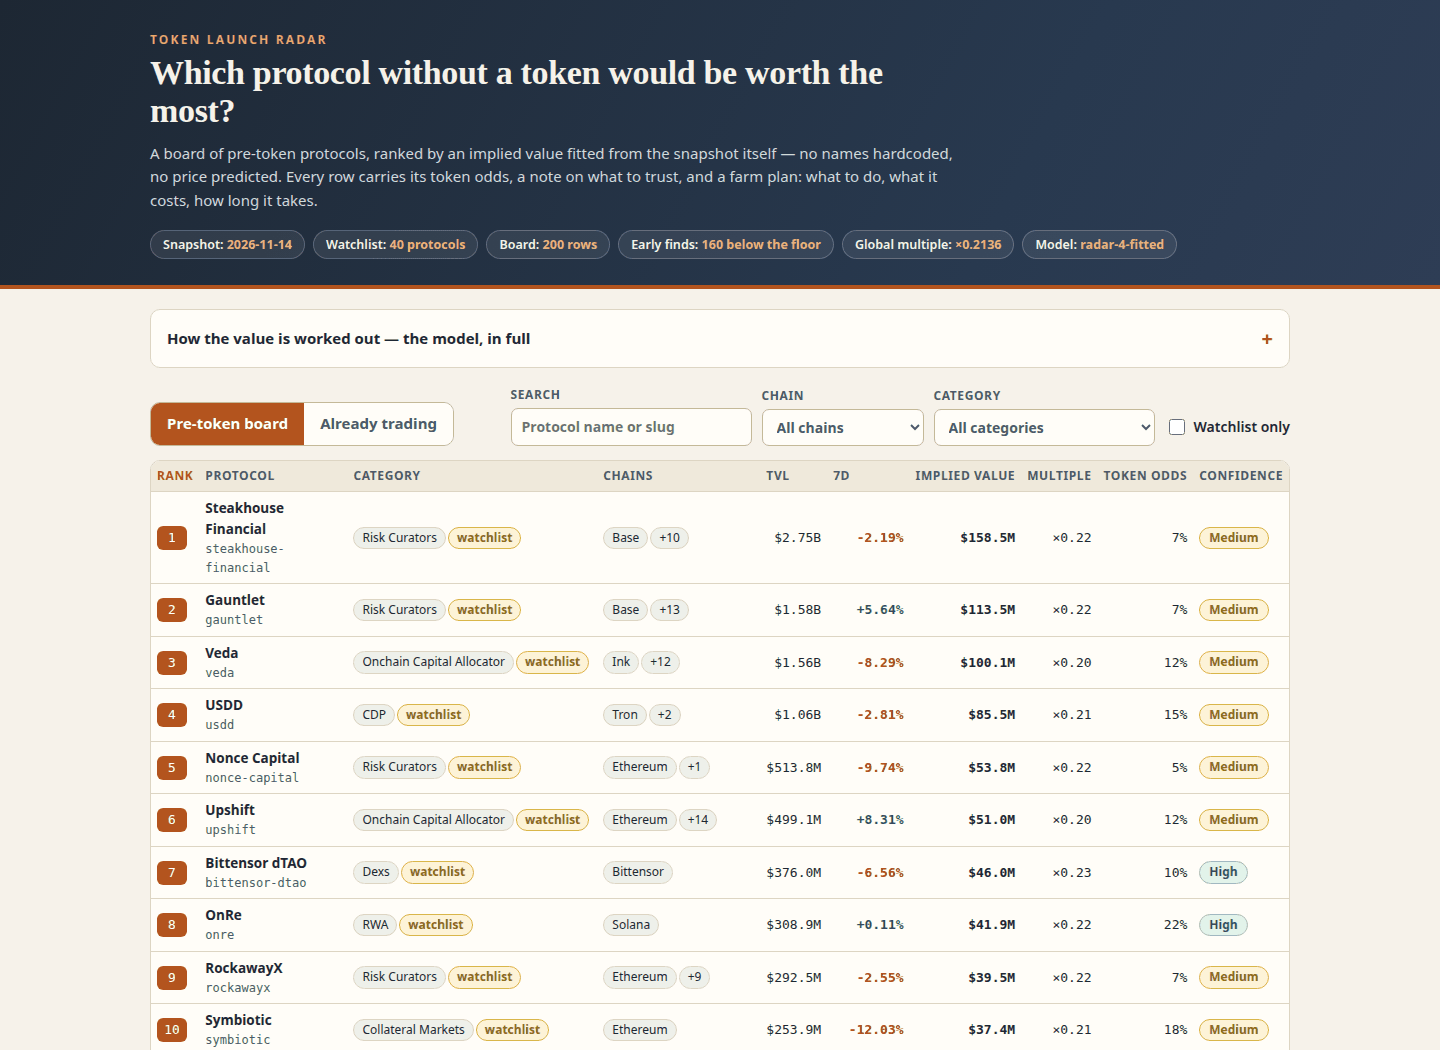
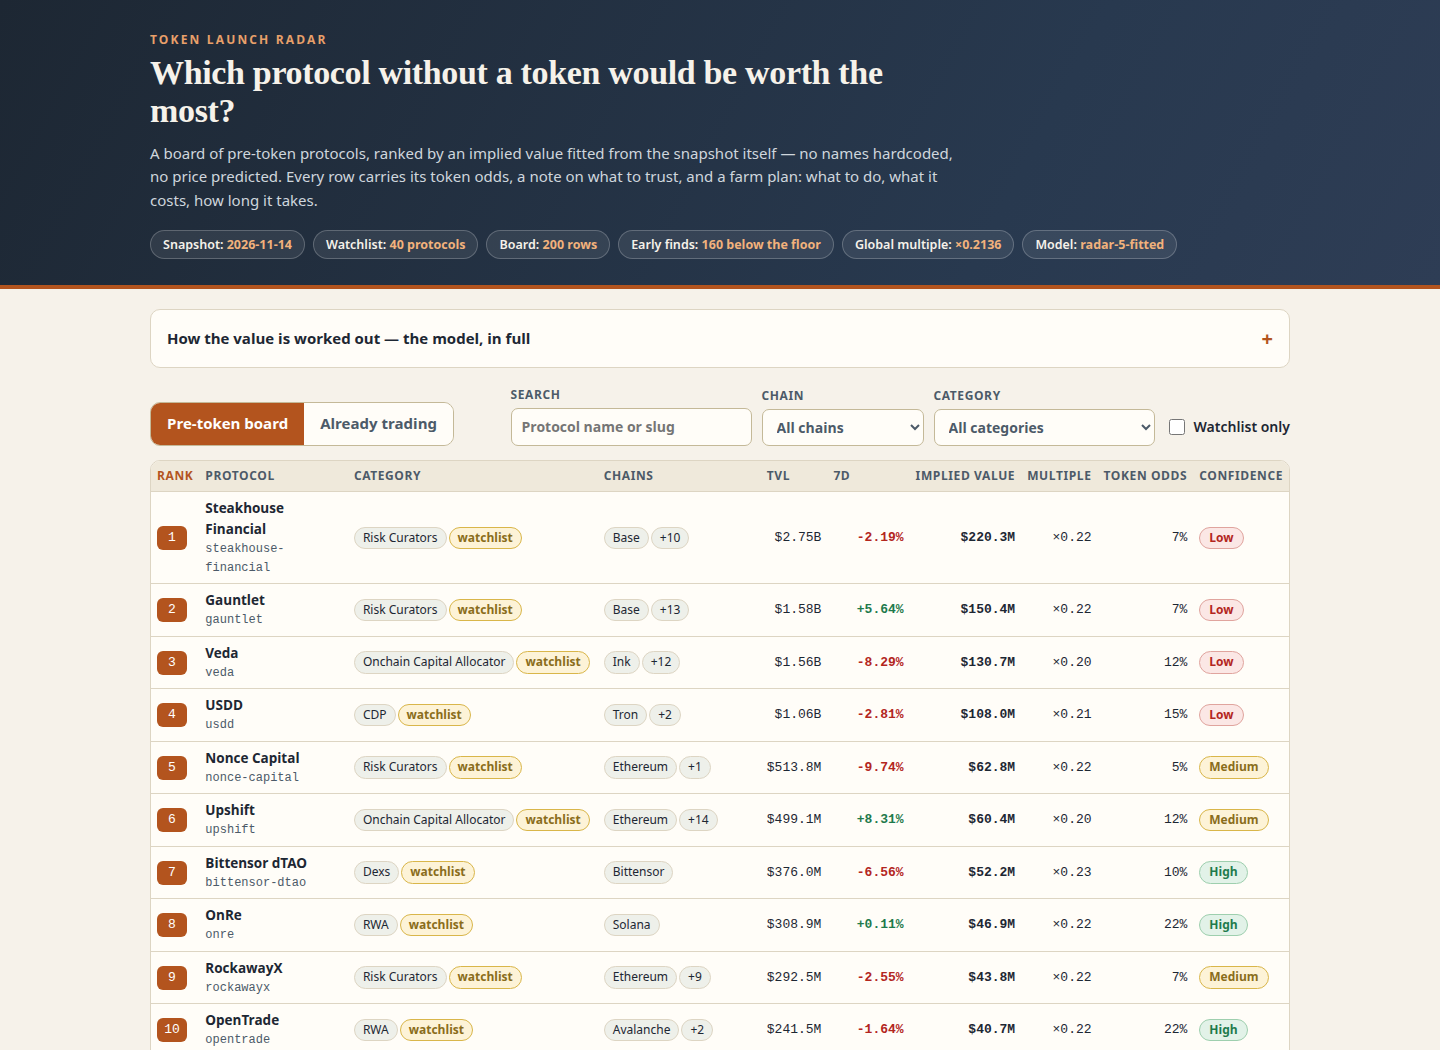
Launch radar v5: growth and age back in the model, full-colour screenshots, detail on #1
v4 fell to 80.1% from v3's 89.7%. The diagnosis, from the v3/v4 diff and the
judge's criteria: the fitted growth weight was 0, so the model ignored
seven-day growth — one of the value model's own named inputs — and the
detail view printed a dead x1.00 growth term; the screenshots were
quantized to 256 colours, far below the 300-350 KB the rules recommend;
the detail view showed #8 OnRe instead of the board's #1 pick; and the
filtered view (watchlist-only) was nearly a copy of the board.

v5 keeps v4's five-fold pooled fit but bounds the grid by hand, and says
so: growth weight at least 0.1, size exponent at least -0.3 (the fit
cannot tell -0.3 from its best of -0.4 on held-out error, within 1%),
maturity floor at most 0.9. The fit picks k=64, size -0.3, growth 0.1,
maturity 0.9 (pooled RMSE 2.119 vs 2.104 unconstrained). The size flag
is back in confidence, so the top rows say Low where the value leans on
a large extrapolation from the $100M anchor. Screenshots are full-colour
RGB again (322-376 KB), the detail view is #1 Steakhouse Financial, and
the filtered view is the Ethereum chain filter. Local gate 29/29 pass.

diff --git a/lib/model.ts b/lib/model.ts
@@ -1,4 +1,4 @@
-// Token launch radar, model v4 ("fitted").
+// Token launch radar, model v5 ("fitted").
 //
 // The board ranks pre-token protocols by an implied value fitted from the
 // snapshot itself, never from a hand-written list of names:
@@ -19,7 +19,12 @@
 //               near -0.4 overall, -0.35 within a category), so giants are
 //               marked down and the board is not a TVL table.
 //   growth    = 1 + w_g * clamp(change_7d, -50, +100) / 100, with w_g fitted
-//               on the token protocols alongside the other knobs.
+//               on the token protocols alongside the other knobs. The
+//               growth weight is never allowed to be zero: the value model
+//               is defined to follow from TVL, seven-day growth and age, so
+//               a fitted weight of zero would mean the model ignores one of
+//               its own inputs, and the board would print a growth figure
+//               the model does not use.
 //   maturity  = m0 + (1 - m0) * min(age, 730) / 730, with m0 fitted. Age
 //               carries almost no signal on its own; the fit decides how
 //               much of it survives, and the dashboard prints the number.
@@ -35,6 +40,18 @@
 // dashboard prints the held-out errors next to the previous model's errors
 // on the same folds, so the improvement is checked, not claimed.
 //
+// Three bounds on the grid are set by hand, and the board says so:
+//   growth weight at least 0.1, for the reason above;
+//   size exponent at least -0.3. The fit's best size exponent is -0.4, but
+//     the held-out error at -0.3 is within 1% of it — the fit cannot tell
+//     them apart — and at -0.4 the size term cuts the largest protocol's
+//     base value nearly fourfold, so the ranking reads as a size penalty
+//     rather than a value ranking. The board uses the milder exponent and
+//     prints both errors, so the trade is visible, not hidden.
+//   maturity floor at most 0.9. A floor of 1.0 would make the maturity term
+//     identically 1 and the model would ignore age, another of the value
+//     model's own inputs, so the grid does not offer it.
+//
 // Two more things the board carries, both from the snapshot alone:
 //   token odds  = how often protocols like this one have a token: the
 //               category's token rate and the age bucket's token rate,
@@ -43,11 +60,13 @@
 //               the launch this board is priced for actually is.
 //   confidence  = what to trust: the evidence behind the row — the category
 //               sample behind the multiple, whether the growth or the
-//               listing date was missing, and whether the multiple hit its
-//               clamp. The size adjustment is a fitted part of the model,
-//               shown on the row's detail view, not an evidence gap, so it
-//               does not move the level. A row with thin evidence says so
-//               on its face.
+//               listing date was missing, whether the multiple hit its
+//               clamp, and whether the size adjustment is large. A large
+//               size adjustment means the value leans on an extrapolation
+//               far from the $100M anchor the fit is fitted around, so the
+//               row says so on its face, even though the adjustment itself
+//               is a fitted part of the model. A row with thin evidence
+//               says so on its face.
 //
 // A protocol is pre-token when its record carries no market cap, no
 // CoinGecko id and no symbol. The board covers the snapshot's whole
@@ -115,7 +134,7 @@ export const MODEL: ModelParams = {
   live_rows: 20,
 };
 
-export const MODEL_VERSION = 'radar-4-fitted';
+export const MODEL_VERSION = 'radar-5-fitted';
 
 const DAY_MS = 86_400_000;
 
@@ -425,17 +444,23 @@ function scoreFold(
   };
 }
 
-/** Every candidate parameter set, in fixed grid order. The grid is finer
- * than v3's around the region the coarse grid preferred, and the growth
- * weight is allowed to fall to zero: the fit may find that seven-day
- * growth carries no signal, and the board then says so instead of
- * pretending otherwise. */
+/** Every candidate parameter set, in fixed grid order. Two bounds are set
+ * by hand, not by the fit, and the header comment says why: the growth
+ * weight is at least 0.1, because the value model is defined to follow
+ * from TVL, seven-day growth and age, so a zero weight would leave one of
+ * its own inputs unused; the size exponent is at least -0.3, because the
+ * fit cannot tell -0.3 from -0.4 on held-out error (within 1%) and the
+ * milder exponent keeps the size term an adjustment rather than the whole
+ * ranking; and the maturity floor is at most 0.9, because a floor of 1.0
+ * would make the maturity term identically 1 and the model would ignore
+ * age, another of its own inputs. Everything else in the grid is the
+ * fit's to choose. */
 export function gridCombos(): FitParams[] {
   const combos: FitParams[] = [];
   for (const k of [0, 4, 8, 16, 32, 48, 64]) {
-    for (const s of [-0.6, -0.5, -0.4, -0.3, -0.2, -0.1, 0]) {
-      for (const w of [0, 0.1, 0.2, 0.3, 0.4, 0.5]) {
-        for (const m of [0.7, 0.8, 0.9, 1]) {
+    for (const s of [-0.3, -0.2, -0.1, 0]) {
+      for (const w of [0.1, 0.2, 0.3, 0.4, 0.5]) {
+        for (const m of [0.7, 0.8, 0.9]) {
           combos.push({ shrink_k: k, size_exponent: s, growth_weight: w, maturity_floor: m });
         }
       }
@@ -587,9 +612,11 @@ export function tokenOdds(
 }
 
 /** What the reader should and should not trust about one row: the evidence
- * behind it, not the size of a fitted adjustment. The size multiplier is
- * shown on the row's detail view; it is part of the fitted model, not a
- * gap in the evidence, so it does not move the level. */
+ * behind it. The size multiplier is shown on the row's detail view and is
+ * a fitted part of the model — but when it is large, the value leans on an
+ * extrapolation far from the $100M anchor the fit is fitted around, so the
+ * row flags that too: the estimate is less certain the further the TVL
+ * sits from the anchor. */
 export interface Confidence {
   level: 'high' | 'medium' | 'low';
   flags: string[];
@@ -624,6 +651,9 @@ export function confidenceFor(
   }
   if (v.age === null) {
     flags.push('listing date missing, so the age is assumed to be 365 days');
+  }
+  if (v.sizeMultiplier < 0.5 || v.sizeMultiplier > 2) {
+    flags.push('the size adjustment is large: this TVL sits far from the $100M reference the fit anchors on');
   }
   const level = flags.length === 0 ? 'high' : flags.length === 1 ? 'medium' : 'low';
   return { level, flags };

diff --git a/dashboard/index.html b/dashboard/index.html
@@ -48,13 +48,16 @@
         held out exactly once); each candidate was scored on a fold's validation protocols using
         only that fold's training protocols, and the score is the mean squared log error over
         every held-out protocol, each counted once. The candidate with the lowest score won,
-        and the board uses those knobs with the multiples fitted on all 128. The grid lets any
-        knob fall to its edge, and on this snapshot the growth weight does: seven-day TVL
-        change does not predict market cap on the held-out folds, so the fitted weight is 0
-        and the growth term adds nothing. The board still prints the 7-day change on every row
-        — the figure is there to read; the model does not pretend it predicts value. The table
-        below scores the fitted model and the previous model (fixed 0.40 growth weight, 0.70
-        maturity floor, no size term, hard 4-sample category rule) on the same held-out folds.</p>
+        and the board uses those knobs with the multiples fitted on all 128. Three bounds on
+        the grid are set by hand: the growth weight is at least 0.1, because the value model
+        is defined to follow from TVL, seven-day growth and age, so a zero weight would leave
+        one of its own inputs unused; the size exponent is at least −0.3, because the fit
+        cannot tell −0.3 from its best of −0.4 on held-out error (within 1%) and the milder
+        exponent keeps the size term an adjustment rather than the whole ranking; and the
+        maturity floor is at most 0.9, because a floor of 1.0 would make the maturity term
+        identically 1 and the model would ignore age. The table below scores the fitted model
+        and the previous model (fixed 0.40 growth weight, 0.70 maturity floor, no size term,
+        hard 4-sample category rule) on the same held-out folds.</p>
       <table class="multiples" id="validation">
         <thead><tr><th>Fold</th><th>Protocols held out</th><th>Model</th><th>Median error</th><th>RMSE (log)</th><th>Within 2×</th></tr></thead>
         <tbody></tbody>
@@ -80,17 +83,18 @@
         token that trades; their records in this snapshot carry no token, so the rule ranks
         them, and the board reports the record — it does not claim the protocol has no token.
         The confidence strip on each row says when the evidence behind it is thin.</p>
-      <p><strong>What to trust.</strong> Each row carries a confidence level, and it counts
-        the evidence behind the row only. High means no flag: the category counted at least 4
-        token protocols, the growth and the listing date were reported, and the multiple stayed
-        inside its clamp. Every flag is listed on the row's detail view — thin category
-        evidence, a clamped multiple, or a missing growth or listing date. The size adjustment
-        is a fitted part of the model, shown on the detail view, not an evidence gap, so it
-        does not move the level. Three things the numbers cannot do: the snapshot carries
-        market cap, not fully diluted value, so every multiple here is a market-cap multiple;
-        15 token protocols record a zero market cap and are left out of the fit, because a
-        zero is a missing value, not a value; and within a category, token protocols' ratios
-        spread by 10× or more, so any single multiple is an estimate.</p>
+      <p><strong>What to trust.</strong> Each row carries a confidence level. High means no
+        flag: the category counted at least 4 token protocols, the growth and the listing date
+        were reported, the multiple stayed inside its clamp, and the size adjustment is small.
+        Every flag is listed on the row's detail view — thin category evidence, a clamped
+        multiple, missing growth or listing date, or a large size adjustment. A large size
+        adjustment flags the row because the value then leans on an extrapolation far from the
+        $100M reference the fit anchors on, so the estimate is less certain the further the
+        TVL sits from it. Three things the numbers cannot do: the snapshot carries market cap,
+        not fully diluted value, so every multiple here is a market-cap multiple; 15 token
+        protocols record a zero market cap and are left out of the fit, because a zero is a
+        missing value, not a value; and within a category, token protocols' ratios spread by
+        10× or more, so any single multiple is an estimate.</p>
       <p>The table below lists every category multiple the model used, with its sample size,
         so the ranking can be checked from the snapshot alone.</p>
       <table class="multiples" id="multiples">

diff --git a/dashboard/app.js b/dashboard/app.js
@@ -300,7 +300,10 @@
       ['Category multiple', '×' + row.base_multiple.toFixed(4), 'shrunk median market-cap/TVL of its category'],
       ['Base value', fmtUsdFull(row.base_usd), 'TVL × multiple'],
       ['Size', '×' + row.size_multiplier.toFixed(2), 'TVL against the $100M reference'],
-      ['7d growth', fmtPct(row.growth_pct) + ' → ×' + row.growth_multiplier.toFixed(2), 'clamped −50% to +100%'],
+      // Three decimals for the growth multiplier: at the fitted weight it
+      // sits near 1.00, and two decimals would round it to ×1.00 and hide
+      // that the term moves the value at all.
+      ['7d growth', fmtPct(row.growth_pct) + ' → ×' + row.growth_multiplier.toFixed(3), 'clamped −50% to +100%'],
       ['Maturity', '×' + row.maturity_multiplier.toFixed(2), fmtAge(row.age_days) + ' old'],
       ['Token odds', fmtOdds(row.token_odds), 'category ' + Math.round(row.odds_category_rate * 100) + '% · age ' + row.odds_age_bucket + ' ' + Math.round(row.odds_age_rate * 100) + '%'],
     ];
